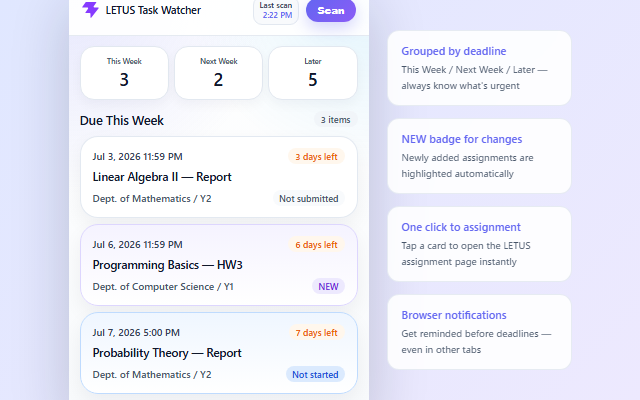
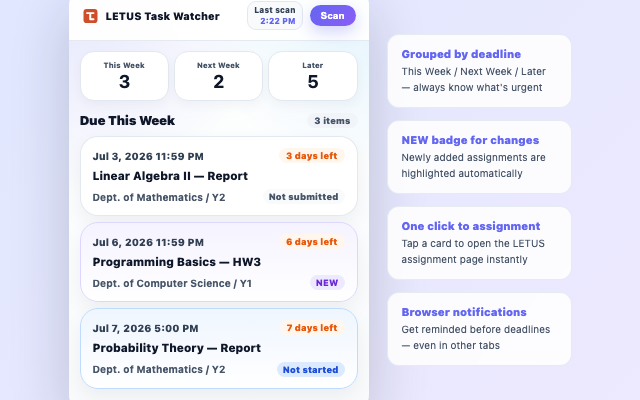
feat(brand): アイコンをVite由来の稲妻から「足つきT」へ刷新
背景: LTWのアイコン・faviconはnpm create viteの雛形が同梱するvite.svg
（Viteの商標ロゴ）のパスを平行移動・着色したものだった。色#863bffも
Vite公式ロゴの色と一致（2026-09-10外部指摘・実測確認）。開発本部が
3ラウンドの生成・独立審査・画像検索(Googleレンズ)を経て新意匠を確定
（2026-09-11ユーザー裁定）。出所の記録は docs/brand-mark.md
（ローカル限定）と /Users/waiteu/dev/waiteu-brand/ltw-2026-09/README.md。

新意匠: 「足つきT」＝朱#CF4E2Aの角丸容器に白のT（縦画の下端が右へ折れて
足になる＝LとTの合字）。座標は開発本部が手計算（フォント・既存ロゴ・
アイコンセット・画像生成AI不使用）。採用前に色付き・シルエット両方の
画像検索で既存アプリとの酷似なしを確認済み。

反映範囲:
- public/icons/icon-16/32/48/128.png（manifest参照）
- landing/favicon.svg・public/favicon.svg
- landing/apple-touch-icon.png
- store-assets/logo-300x300.png・.svg（Edgeストアロゴ）
- store-assets/icon-128.png（Chrome Web Store掲載アイコン・余白版）
- store-assets/stripe-icon.png
- store-assets/promo-tile-440x280(.html/-en.html)・-large-1400x560(.html/-en.html)
- store-assets/screenshot-640x400(.html/-en.html)
- store-assets/x-card-v140-calendar-1200x675(.html/@2x.png)
- scripts/gen-promo.mjs（store-promo.png生成元。稲妻path+#863bffの
  3箇所すべてを新意匠+朱色へ。装飾用の紫系グラデーション背景は
  店頭画像全体の配色として維持、UI差分は今回のスコープ外）

HTML内の稲妻path（M25.946 44.938...）は正規表現で一括置換し、置換後は
grep実測で稲妻path・#863bffともに0件を確認。全PNGはrender.sh（ヘッドレス
Chrome）で再生成し、代表的なものを目視確認済み（[[generated-media-needs-visual-check]]）。

manifest.jsonのicons参照パスは無変更（同一パスのファイル内容だけ差替え）。
バージョンbump・changelog・ストア申請は別コミットで対応。

diff --git a/store-assets/promo-tile-large-1400x560-en.html b/store-assets/promo-tile-large-1400x560-en.html
@@ -31,7 +31,7 @@
   <!-- LEFT -->
   <div style="width:420px;padding:0 0 0 64px;flex-shrink:0;z-index:1">
     <div style="display:flex;align-items:center;gap:10px;margin-bottom:20px">
-      <svg width="36" height="34" viewBox="0 0 48 46" fill="none"><path fill="#c4b5fd" d="M25.946 44.938c-.664.845-2.021.375-2.021-.698V33.937a2.26 2.26 0 0 0-2.262-2.262H10.287c-.92 0-1.456-1.04-.92-1.788l7.48-10.471c1.07-1.497 0-3.578-1.842-3.578H1.237c-.92 0-1.456-1.04-.92-1.788L10.013.474c.214-.297.556-.474.92-.474h28.894c.92 0 1.456 1.04.92 1.788l-7.48 10.471c-1.07 1.498 0 3.579 1.842 3.579h11.377c.943 0 1.473 1.088.89 1.83L25.947 44.94z"/></svg>
+      <svg width="36" height="34" viewBox="0 0 1024 1024"><rect x="64" y="64" width="896" height="896" rx="200" fill="#CF4E2A"/><path fill="#FFFFFF" d="M288 264 H704 A60 60 0 0 1 704 384 H560 V656 H704 A60 60 0 0 1 704 776 H492 A60 60 0 0 1 432 716 V384 H288 A60 60 0 0 1 288 264 Z"/></svg>
       <span style="font-size:13px;font-weight:800;color:#a5b4fc;letter-spacing:0.08em">LETUS TASK WATCHER</span>
     </div>
     <h1 style="font-size:40px;font-weight:950;color:#ffffff;line-height:1.1;letter-spacing:-0.03em;margin-bottom:16px">Never miss an<br>assignment deadline</h1>
@@ -47,7 +47,7 @@
   <div style="flex-shrink:0;margin:0 32px;z-index:1">
     <div style="width:310px;background:radial-gradient(circle at top left,rgba(99,102,241,0.14),transparent 40%),radial-gradient(circle at top right,rgba(14,165,233,0.1),transparent 35%),linear-gradient(180deg,#fff 0%,#f8fafc 100%);border-radius:18px;box-shadow:0 32px 80px rgba(0,0,0,0.35);overflow:hidden">
       <div style="display:flex;align-items:center;gap:8px;padding:12px 14px;background:rgba(255,255,255,0.93);border-bottom:1px solid rgba(226,232,240,0.9)">
-        <svg width="20" height="19" viewBox="0 0 48 46"><path fill="#863bff" d="M25.946 44.938c-.664.845-2.021.375-2.021-.698V33.937a2.26 2.26 0 0 0-2.262-2.262H10.287c-.92 0-1.456-1.04-.92-1.788l7.48-10.471c1.07-1.497 0-3.578-1.842-3.578H1.237c-.92 0-1.456-1.04-.92-1.788L10.013.474c.214-.297.556-.474.92-.474h28.894c.92 0 1.456 1.04.92 1.788l-7.48 10.471c-1.07 1.498 0 3.579 1.842 3.579h11.377c.943 0 1.473 1.088.89 1.83L25.947 44.94z"/></svg>
+        <svg width="20" height="19" viewBox="0 0 1024 1024"><rect x="64" y="64" width="896" height="896" rx="200" fill="#CF4E2A"/><path fill="#FFFFFF" d="M288 264 H704 A60 60 0 0 1 704 384 H560 V656 H704 A60 60 0 0 1 704 776 H492 A60 60 0 0 1 432 716 V384 H288 A60 60 0 0 1 288 264 Z"/></svg>
         <span style="font-size:12px;font-weight:900;color:#0f172a;flex:1">LETUS Task Watcher</span>
         <div style="text-align:right;padding:4px 7px;border-radius:10px;background:#f8fafc;border:1px solid #e2e8f0;font-size:9px;font-weight:850;line-height:1.3"><span style="display:block;color:#334155">Last scan</span><span style="color:#6366f1">2:22 PM</span></div>
         <button style="padding:6px 13px;border-radius:999px;background:linear-gradient(135deg,#6366f1,#8b5cf6);color:#fff;font-size:11px;font-weight:900;border:none;box-shadow:0 6px 16px rgba(99,102,241,0.3)">Scan</button>
@@ -85,7 +85,7 @@
   <div style="flex:1;padding-right:48px;z-index:1;min-width:0">
     <div style="background:rgba(255,255,255,0.96);border-radius:18px;box-shadow:0 32px 80px rgba(0,0,0,0.3);overflow:hidden">
       <div style="padding:14px 18px;background:rgba(255,255,255,0.95);border-bottom:1px solid #e2e8f0;display:flex;align-items:center;gap:10px">
-        <svg width="18" height="17" viewBox="0 0 48 46"><path fill="#863bff" d="M25.946 44.938c-.664.845-2.021.375-2.021-.698V33.937a2.26 2.26 0 0 0-2.262-2.262H10.287c-.92 0-1.456-1.04-.92-1.788l7.48-10.471c1.07-1.497 0-3.578-1.842-3.578H1.237c-.92 0-1.456-1.04-.92-1.788L10.013.474c.214-.297.556-.474.92-.474h28.894c.92 0 1.456 1.04.92 1.788l-7.48 10.471c-1.07 1.498 0 3.579 1.842 3.579h11.377c.943 0 1.473 1.088.89 1.83L25.947 44.94z"/></svg>
+        <svg width="18" height="17" viewBox="0 0 1024 1024"><rect x="64" y="64" width="896" height="896" rx="200" fill="#CF4E2A"/><path fill="#FFFFFF" d="M288 264 H704 A60 60 0 0 1 704 384 H560 V656 H704 A60 60 0 0 1 704 776 H492 A60 60 0 0 1 432 716 V384 H288 A60 60 0 0 1 288 264 Z"/></svg>
         <span style="font-size:13px;font-weight:900;color:#0f172a;flex:1">Dashboard</span>
         <button style="padding:7px 14px;border-radius:999px;background:linear-gradient(135deg,#6366f1,#8b5cf6);color:#fff;font-size:11px;font-weight:900;border:none;box-shadow:0 6px 16px rgba(99,102,241,0.28)">Scan Now</button>
       </div>

diff --git a/store-assets/promo-tile-large-1400x560.html b/store-assets/promo-tile-large-1400x560.html
@@ -32,7 +32,7 @@
   <!-- LEFT: branding + headline -->
   <div style="width:420px;padding:0 0 0 64px;flex-shrink:0;z-index:1">
     <div style="display:flex;align-items:center;gap:10px;margin-bottom:20px">
-      <svg width="36" height="34" viewBox="0 0 48 46" fill="none"><path fill="#c4b5fd" d="M25.946 44.938c-.664.845-2.021.375-2.021-.698V33.937a2.26 2.26 0 0 0-2.262-2.262H10.287c-.92 0-1.456-1.04-.92-1.788l7.48-10.471c1.07-1.497 0-3.578-1.842-3.578H1.237c-.92 0-1.456-1.04-.92-1.788L10.013.474c.214-.297.556-.474.92-.474h28.894c.92 0 1.456 1.04.92 1.788l-7.48 10.471c-1.07 1.498 0 3.579 1.842 3.579h11.377c.943 0 1.473 1.088.89 1.83L25.947 44.94z"/></svg>
+      <svg width="36" height="34" viewBox="0 0 1024 1024"><rect x="64" y="64" width="896" height="896" rx="200" fill="#CF4E2A"/><path fill="#FFFFFF" d="M288 264 H704 A60 60 0 0 1 704 384 H560 V656 H704 A60 60 0 0 1 704 776 H492 A60 60 0 0 1 432 716 V384 H288 A60 60 0 0 1 288 264 Z"/></svg>
       <span style="font-size:13px;font-weight:800;color:#a5b4fc;letter-spacing:0.08em">LETUS TASK WATCHER</span>
     </div>
     <h1 style="font-size:42px;font-weight:950;color:#ffffff;line-height:1.1;letter-spacing:-0.03em;margin-bottom:16px">課題の締め切りを<br>見逃さない</h1>
@@ -58,7 +58,7 @@
     <div style="width:310px;background:radial-gradient(circle at top left,rgba(99,102,241,0.14),transparent 40%),radial-gradient(circle at top right,rgba(14,165,233,0.1),transparent 35%),linear-gradient(180deg,#fff 0%,#f8fafc 100%);border-radius:18px;box-shadow:0 32px 80px rgba(0,0,0,0.35);overflow:hidden">
       <!-- header -->
       <div style="display:flex;align-items:center;gap:8px;padding:12px 14px;background:rgba(255,255,255,0.93);border-bottom:1px solid rgba(226,232,240,0.9)">
-        <svg width="20" height="19" viewBox="0 0 48 46"><path fill="#863bff" d="M25.946 44.938c-.664.845-2.021.375-2.021-.698V33.937a2.26 2.26 0 0 0-2.262-2.262H10.287c-.92 0-1.456-1.04-.92-1.788l7.48-10.471c1.07-1.497 0-3.578-1.842-3.578H1.237c-.92 0-1.456-1.04-.92-1.788L10.013.474c.214-.297.556-.474.92-.474h28.894c.92 0 1.456 1.04.92 1.788l-7.48 10.471c-1.07 1.498 0 3.579 1.842 3.579h11.377c.943 0 1.473 1.088.89 1.83L25.947 44.94z"/></svg>
+        <svg width="20" height="19" viewBox="0 0 1024 1024"><rect x="64" y="64" width="896" height="896" rx="200" fill="#CF4E2A"/><path fill="#FFFFFF" d="M288 264 H704 A60 60 0 0 1 704 384 H560 V656 H704 A60 60 0 0 1 704 776 H492 A60 60 0 0 1 432 716 V384 H288 A60 60 0 0 1 288 264 Z"/></svg>
         <span style="font-size:12px;font-weight:900;color:#0f172a;flex:1">LETUS Task Watcher</span>
         <div style="text-align:right;padding:4px 7px;border-radius:10px;background:#f8fafc;border:1px solid #e2e8f0;font-size:9px;font-weight:850;line-height:1.3">
           <span style="display:block;color:#334155">最終取得</span>
@@ -110,7 +110,7 @@
     <div style="background:rgba(255,255,255,0.96);border-radius:18px;box-shadow:0 32px 80px rgba(0,0,0,0.3);overflow:hidden">
       <!-- dashboard header -->
       <div style="padding:14px 18px;background:rgba(255,255,255,0.95);border-bottom:1px solid #e2e8f0;display:flex;align-items:center;gap:10px">
-        <svg width="18" height="17" viewBox="0 0 48 46"><path fill="#863bff" d="M25.946 44.938c-.664.845-2.021.375-2.021-.698V33.937a2.26 2.26 0 0 0-2.262-2.262H10.287c-.92 0-1.456-1.04-.92-1.788l7.48-10.471c1.07-1.497 0-3.578-1.842-3.578H1.237c-.92 0-1.456-1.04-.92-1.788L10.013.474c.214-.297.556-.474.92-.474h28.894c.92 0 1.456 1.04.92 1.788l-7.48 10.471c-1.07 1.498 0 3.579 1.842 3.579h11.377c.943 0 1.473 1.088.89 1.83L25.947 44.94z"/></svg>
+        <svg width="18" height="17" viewBox="0 0 1024 1024"><rect x="64" y="64" width="896" height="896" rx="200" fill="#CF4E2A"/><path fill="#FFFFFF" d="M288 264 H704 A60 60 0 0 1 704 384 H560 V656 H704 A60 60 0 0 1 704 776 H492 A60 60 0 0 1 432 716 V384 H288 A60 60 0 0 1 288 264 Z"/></svg>
         <span style="font-size:13px;font-weight:900;color:#0f172a;flex:1">ダッシュボード</span>
         <button style="padding:7px 14px;border-radius:999px;background:linear-gradient(135deg,#6366f1,#8b5cf6);color:#fff;font-size:11px;font-weight:900;border:none;box-shadow:0 6px 16px rgba(99,102,241,0.28)">今すぐスキャン</button>
       </div>

diff --git a/store-assets/promo-tile-440x280-en.html b/store-assets/promo-tile-440x280-en.html
@@ -11,7 +11,7 @@
 <div style="width:440px;height:280px;background:linear-gradient(135deg,#3730a3 0%,#4f46e5 45%,#6d28d9 100%);display:flex;align-items:stretch;overflow:hidden;position:relative;font-family:system-ui,-apple-system,BlinkMacSystemFont,'Segoe UI',sans-serif">
   <div style="flex:1;padding:28px 24px;display:flex;flex-direction:column;justify-content:center;gap:14px;z-index:1">
     <div style="display:flex;align-items:center;gap:8px">
-      <svg width="20" height="19" viewBox="0 0 48 46" fill="none"><path fill="#c4b5fd" d="M25.946 44.938c-.664.845-2.021.375-2.021-.698V33.937a2.26 2.26 0 0 0-2.262-2.262H10.287c-.92 0-1.456-1.04-.92-1.788l7.48-10.471c1.07-1.497 0-3.578-1.842-3.578H1.237c-.92 0-1.456-1.04-.92-1.788L10.013.474c.214-.297.556-.474.92-.474h28.894c.92 0 1.456 1.04.92 1.788l-7.48 10.471c-1.07 1.498 0 3.579 1.842 3.579h11.377c.943 0 1.473 1.088.89 1.83L25.947 44.94z"/></svg>
+      <svg width="20" height="19" viewBox="0 0 1024 1024"><rect x="64" y="64" width="896" height="896" rx="200" fill="#CF4E2A"/><path fill="#FFFFFF" d="M288 264 H704 A60 60 0 0 1 704 384 H560 V656 H704 A60 60 0 0 1 704 776 H492 A60 60 0 0 1 432 716 V384 H288 A60 60 0 0 1 288 264 Z"/></svg>
       <span style="font-size:10px;font-weight:800;color:#c4b5fd;letter-spacing:0.06em">LETUS TASK WATCHER</span>
     </div>
     <div>
@@ -36,7 +36,7 @@
   <div style="width:160px;padding:12px 12px 0 0;display:flex;align-items:flex-end">
     <div style="width:148px;background:radial-gradient(circle at top left,rgba(99,102,241,0.12),transparent 50%),#fff;border-radius:10px 10px 0 0;overflow:hidden;box-shadow:0 -8px 28px rgba(0,0,0,0.24)">
       <div style="padding:7px 9px;background:rgba(255,255,255,0.96);border-bottom:1px solid #e2e8f0;display:flex;align-items:center;gap:5px">
-        <svg width="11" height="10" viewBox="0 0 48 46"><path fill="#863bff" d="M25.946 44.938c-.664.845-2.021.375-2.021-.698V33.937a2.26 2.26 0 0 0-2.262-2.262H10.287c-.92 0-1.456-1.04-.92-1.788l7.48-10.471c1.07-1.497 0-3.578-1.842-3.578H1.237c-.92 0-1.456-1.04-.92-1.788L10.013.474c.214-.297.556-.474.92-.474h28.894c.92 0 1.456 1.04.92 1.788l-7.48 10.471c-1.07 1.498 0 3.579 1.842 3.579h11.377c.943 0 1.473 1.088.89 1.83L25.947 44.94z"/></svg>
+        <svg width="11" height="10" viewBox="0 0 1024 1024"><rect x="64" y="64" width="896" height="896" rx="200" fill="#CF4E2A"/><path fill="#FFFFFF" d="M288 264 H704 A60 60 0 0 1 704 384 H560 V656 H704 A60 60 0 0 1 704 776 H492 A60 60 0 0 1 432 716 V384 H288 A60 60 0 0 1 288 264 Z"/></svg>
         <span style="font-size:7px;font-weight:900;color:#0f172a;flex:1">LETUS Task Watcher</span>
       </div>
       <div style="padding:7px">

diff --git a/store-assets/promo-tile-440x280.html b/store-assets/promo-tile-440x280.html
@@ -12,7 +12,7 @@
   <!-- left text -->
   <div style="flex:1;padding:28px 24px;display:flex;flex-direction:column;justify-content:center;gap:14px;z-index:1">
     <div style="display:flex;align-items:center;gap:8px">
-      <svg width="20" height="19" viewBox="0 0 48 46" fill="none"><path fill="#c4b5fd" d="M25.946 44.938c-.664.845-2.021.375-2.021-.698V33.937a2.26 2.26 0 0 0-2.262-2.262H10.287c-.92 0-1.456-1.04-.92-1.788l7.48-10.471c1.07-1.497 0-3.578-1.842-3.578H1.237c-.92 0-1.456-1.04-.92-1.788L10.013.474c.214-.297.556-.474.92-.474h28.894c.92 0 1.456 1.04.92 1.788l-7.48 10.471c-1.07 1.498 0 3.579 1.842 3.579h11.377c.943 0 1.473 1.088.89 1.83L25.947 44.94z"/></svg>
+      <svg width="20" height="19" viewBox="0 0 1024 1024"><rect x="64" y="64" width="896" height="896" rx="200" fill="#CF4E2A"/><path fill="#FFFFFF" d="M288 264 H704 A60 60 0 0 1 704 384 H560 V656 H704 A60 60 0 0 1 704 776 H492 A60 60 0 0 1 432 716 V384 H288 A60 60 0 0 1 288 264 Z"/></svg>
       <span style="font-size:10px;font-weight:800;color:#c4b5fd;letter-spacing:0.06em">LETUS TASK WATCHER</span>
     </div>
     <div>
@@ -38,7 +38,7 @@
   <div style="width:160px;padding:12px 12px 0 0;display:flex;align-items:flex-end">
     <div style="width:148px;background:radial-gradient(circle at top left,rgba(99,102,241,0.12),transparent 50%),#fff;border-radius:10px 10px 0 0;overflow:hidden;box-shadow:0 -8px 28px rgba(0,0,0,0.24)">
       <div style="padding:7px 9px;background:rgba(255,255,255,0.96);border-bottom:1px solid #e2e8f0;display:flex;align-items:center;gap:5px">
-        <svg width="11" height="10" viewBox="0 0 48 46"><path fill="#863bff" d="M25.946 44.938c-.664.845-2.021.375-2.021-.698V33.937a2.26 2.26 0 0 0-2.262-2.262H10.287c-.92 0-1.456-1.04-.92-1.788l7.48-10.471c1.07-1.497 0-3.578-1.842-3.578H1.237c-.92 0-1.456-1.04-.92-1.788L10.013.474c.214-.297.556-.474.92-.474h28.894c.92 0 1.456 1.04.92 1.788l-7.48 10.471c-1.07 1.498 0 3.579 1.842 3.579h11.377c.943 0 1.473 1.088.89 1.83L25.947 44.94z"/></svg>
+        <svg width="11" height="10" viewBox="0 0 1024 1024"><rect x="64" y="64" width="896" height="896" rx="200" fill="#CF4E2A"/><path fill="#FFFFFF" d="M288 264 H704 A60 60 0 0 1 704 384 H560 V656 H704 A60 60 0 0 1 704 776 H492 A60 60 0 0 1 432 716 V384 H288 A60 60 0 0 1 288 264 Z"/></svg>
         <span style="font-size:7.5px;font-weight:900;color:#0f172a;flex:1">LETUS Task Watcher</span>
       </div>
       <div style="padding:7px">

diff --git a/store-assets/screenshot-640x400-en.html b/store-assets/screenshot-640x400-en.html
@@ -23,7 +23,7 @@
 <div style="width:640px;height:400px;background:linear-gradient(135deg,#e0e7ff 0%,#ede9fe 100%);display:flex;align-items:center;justify-content:center;gap:18px">
   <div style="width:300px;background:radial-gradient(circle at top left,rgba(99,102,241,0.16),transparent 40%),radial-gradient(circle at top right,rgba(14,165,233,0.12),transparent 35%),linear-gradient(180deg,#fff 0%,#f8fafc 100%);border-radius:14px;box-shadow:0 20px 60px rgba(15,23,42,0.2);overflow:hidden">
     <div style="display:flex;align-items:center;gap:7px;padding:10px 13px;background:rgba(255,255,255,0.92);border-bottom:1px solid rgba(226,232,240,0.9)">
-      <svg width="17" height="16" viewBox="0 0 48 46"><path fill="#863bff" d="M25.946 44.938c-.664.845-2.021.375-2.021-.698V33.937a2.26 2.26 0 0 0-2.262-2.262H10.287c-.92 0-1.456-1.04-.92-1.788l7.48-10.471c1.07-1.497 0-3.578-1.842-3.578H1.237c-.92 0-1.456-1.04-.92-1.788L10.013.474c.214-.297.556-.474.92-.474h28.894c.92 0 1.456 1.04.92 1.788l-7.48 10.471c-1.07 1.498 0 3.579 1.842 3.579h11.377c.943 0 1.473 1.088.89 1.83L25.947 44.94z"/></svg>
+      <svg width="17" height="16" viewBox="0 0 1024 1024"><rect x="64" y="64" width="896" height="896" rx="200" fill="#CF4E2A"/><path fill="#FFFFFF" d="M288 264 H704 A60 60 0 0 1 704 384 H560 V656 H704 A60 60 0 0 1 704 776 H492 A60 60 0 0 1 432 716 V384 H288 A60 60 0 0 1 288 264 Z"/></svg>
       <span style="font-size:10.5px;font-weight:900;color:#0f172a;flex:1">LETUS Task Watcher</span>
       <div style="text-align:right;padding:3px 6px;border-radius:9px;background:#f8fafc;border:1px solid #e2e8f0;font-size:8px;font-weight:850;color:#475569;line-height:1.3">
         <span style="display:block;color:#334155">Last scan</span>

diff --git a/store-assets/screenshot-640x400.html b/store-assets/screenshot-640x400.html
@@ -25,7 +25,7 @@
   <div class="popup">
     <!-- header -->
     <div style="display:flex;align-items:center;gap:7px;padding:10px 13px;background:rgba(255,255,255,0.92);border-bottom:1px solid rgba(226,232,240,0.9)">
-      <svg width="17" height="16" viewBox="0 0 48 46"><path fill="#863bff" d="M25.946 44.938c-.664.845-2.021.375-2.021-.698V33.937a2.26 2.26 0 0 0-2.262-2.262H10.287c-.92 0-1.456-1.04-.92-1.788l7.48-10.471c1.07-1.497 0-3.578-1.842-3.578H1.237c-.92 0-1.456-1.04-.92-1.788L10.013.474c.214-.297.556-.474.92-.474h28.894c.92 0 1.456 1.04.92 1.788l-7.48 10.471c-1.07 1.498 0 3.579 1.842 3.579h11.377c.943 0 1.473 1.088.89 1.83L25.947 44.94z"/></svg>
+      <svg width="17" height="16" viewBox="0 0 1024 1024"><rect x="64" y="64" width="896" height="896" rx="200" fill="#CF4E2A"/><path fill="#FFFFFF" d="M288 264 H704 A60 60 0 0 1 704 384 H560 V656 H704 A60 60 0 0 1 704 776 H492 A60 60 0 0 1 432 716 V384 H288 A60 60 0 0 1 288 264 Z"/></svg>
       <span style="font-size:10.5px;font-weight:900;color:#0f172a;flex:1">LETUS Task Watcher</span>
       <div style="text-align:right;padding:3px 6px;border-radius:9px;background:#f8fafc;border:1px solid #e2e8f0;font-size:8px;font-weight:850;color:#475569;line-height:1.3">
         <span style="display:block;color:#334155">最終取得</span>

diff --git a/store-assets/x-card-v140-calendar-1200x675.html b/store-assets/x-card-v140-calendar-1200x675.html
@@ -34,7 +34,7 @@
   <!-- LEFT: branding + headline -->
   <div style="width:340px;padding:0 0 0 48px;flex-shrink:0;z-index:1">
     <div style="display:flex;align-items:center;gap:10px;margin-bottom:18px">
-      <svg width="34" height="32" viewBox="0 0 48 46" fill="none"><path fill="#c4b5fd" d="M25.946 44.938c-.664.845-2.021.375-2.021-.698V33.937a2.26 2.26 0 0 0-2.262-2.262H10.287c-.92 0-1.456-1.04-.92-1.788l7.48-10.471c1.07-1.497 0-3.578-1.842-3.578H1.237c-.92 0-1.456-1.04-.92-1.788L10.013.474c.214-.297.556-.474.92-.474h28.894c.92 0 1.456 1.04.92 1.788l-7.48 10.471c-1.07 1.498 0 3.579 1.842 3.579h11.377c.943 0 1.473 1.088.89 1.83L25.947 44.94z"/></svg>
+      <svg width="34" height="32" viewBox="0 0 1024 1024"><rect x="64" y="64" width="896" height="896" rx="200" fill="#CF4E2A"/><path fill="#FFFFFF" d="M288 264 H704 A60 60 0 0 1 704 384 H560 V656 H704 A60 60 0 0 1 704 776 H492 A60 60 0 0 1 432 716 V384 H288 A60 60 0 0 1 288 264 Z"/></svg>
       <span style="font-size:12.5px;font-weight:800;color:#a5b4fc;letter-spacing:0.08em">LETUS TASK WATCHER</span>
     </div>
 
